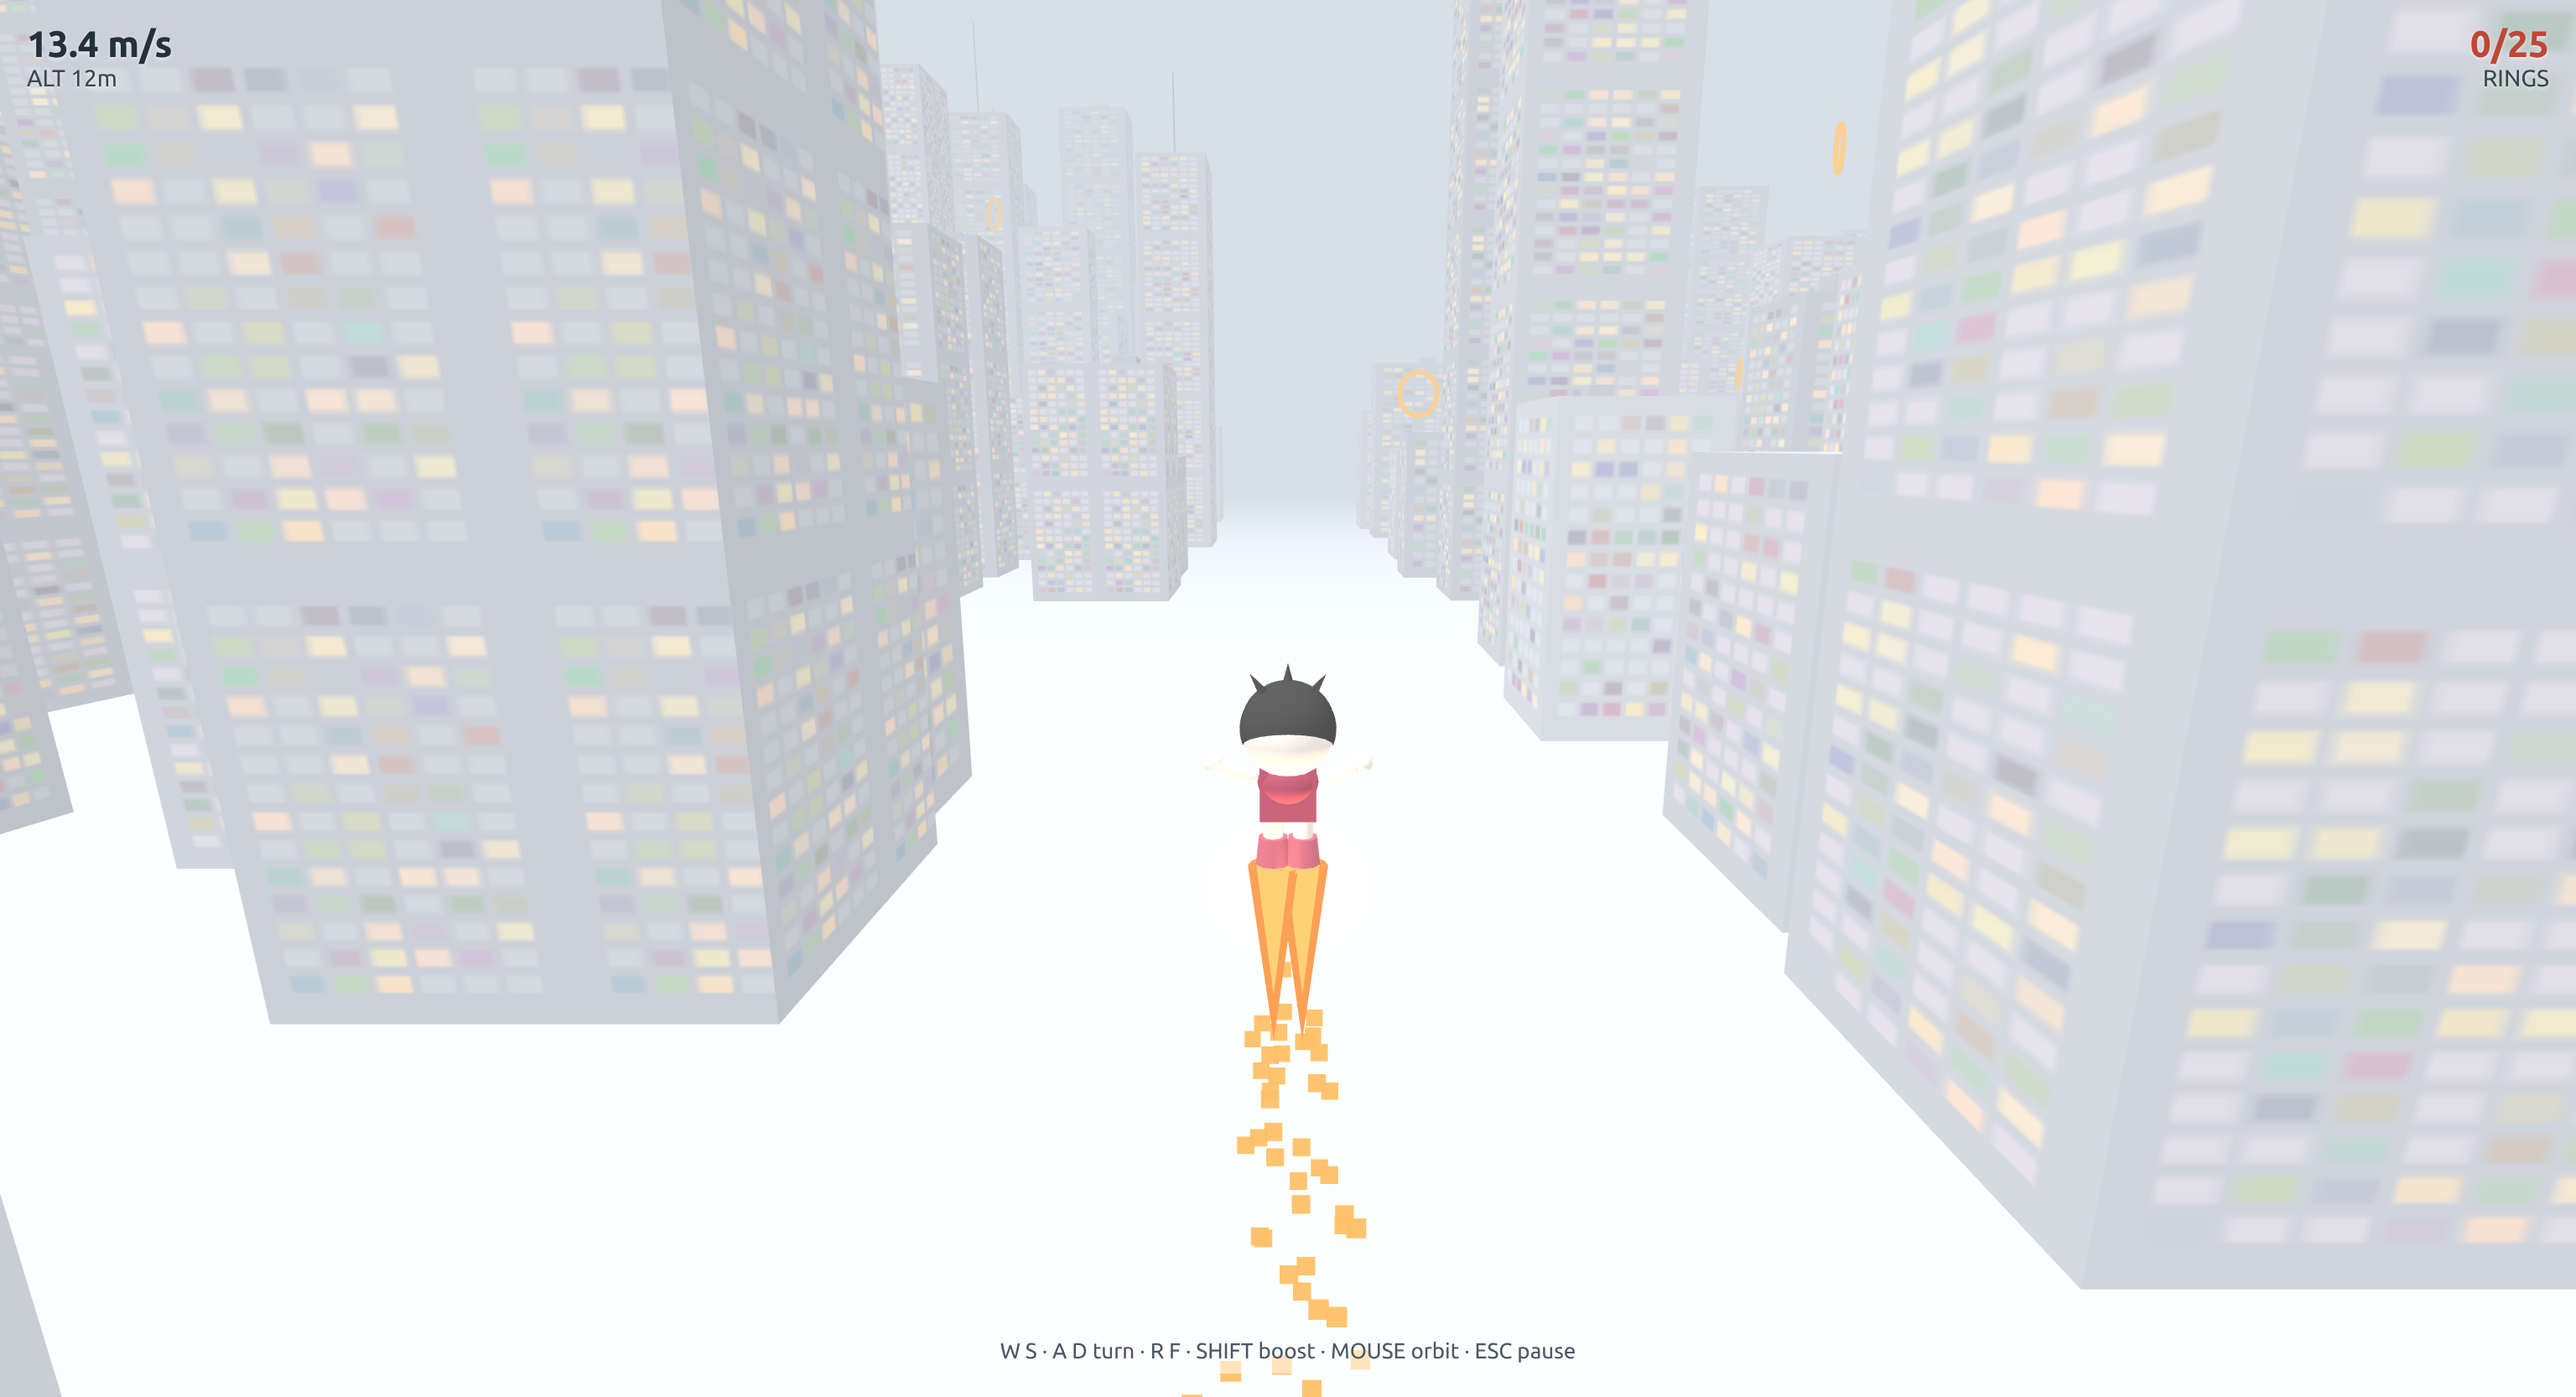
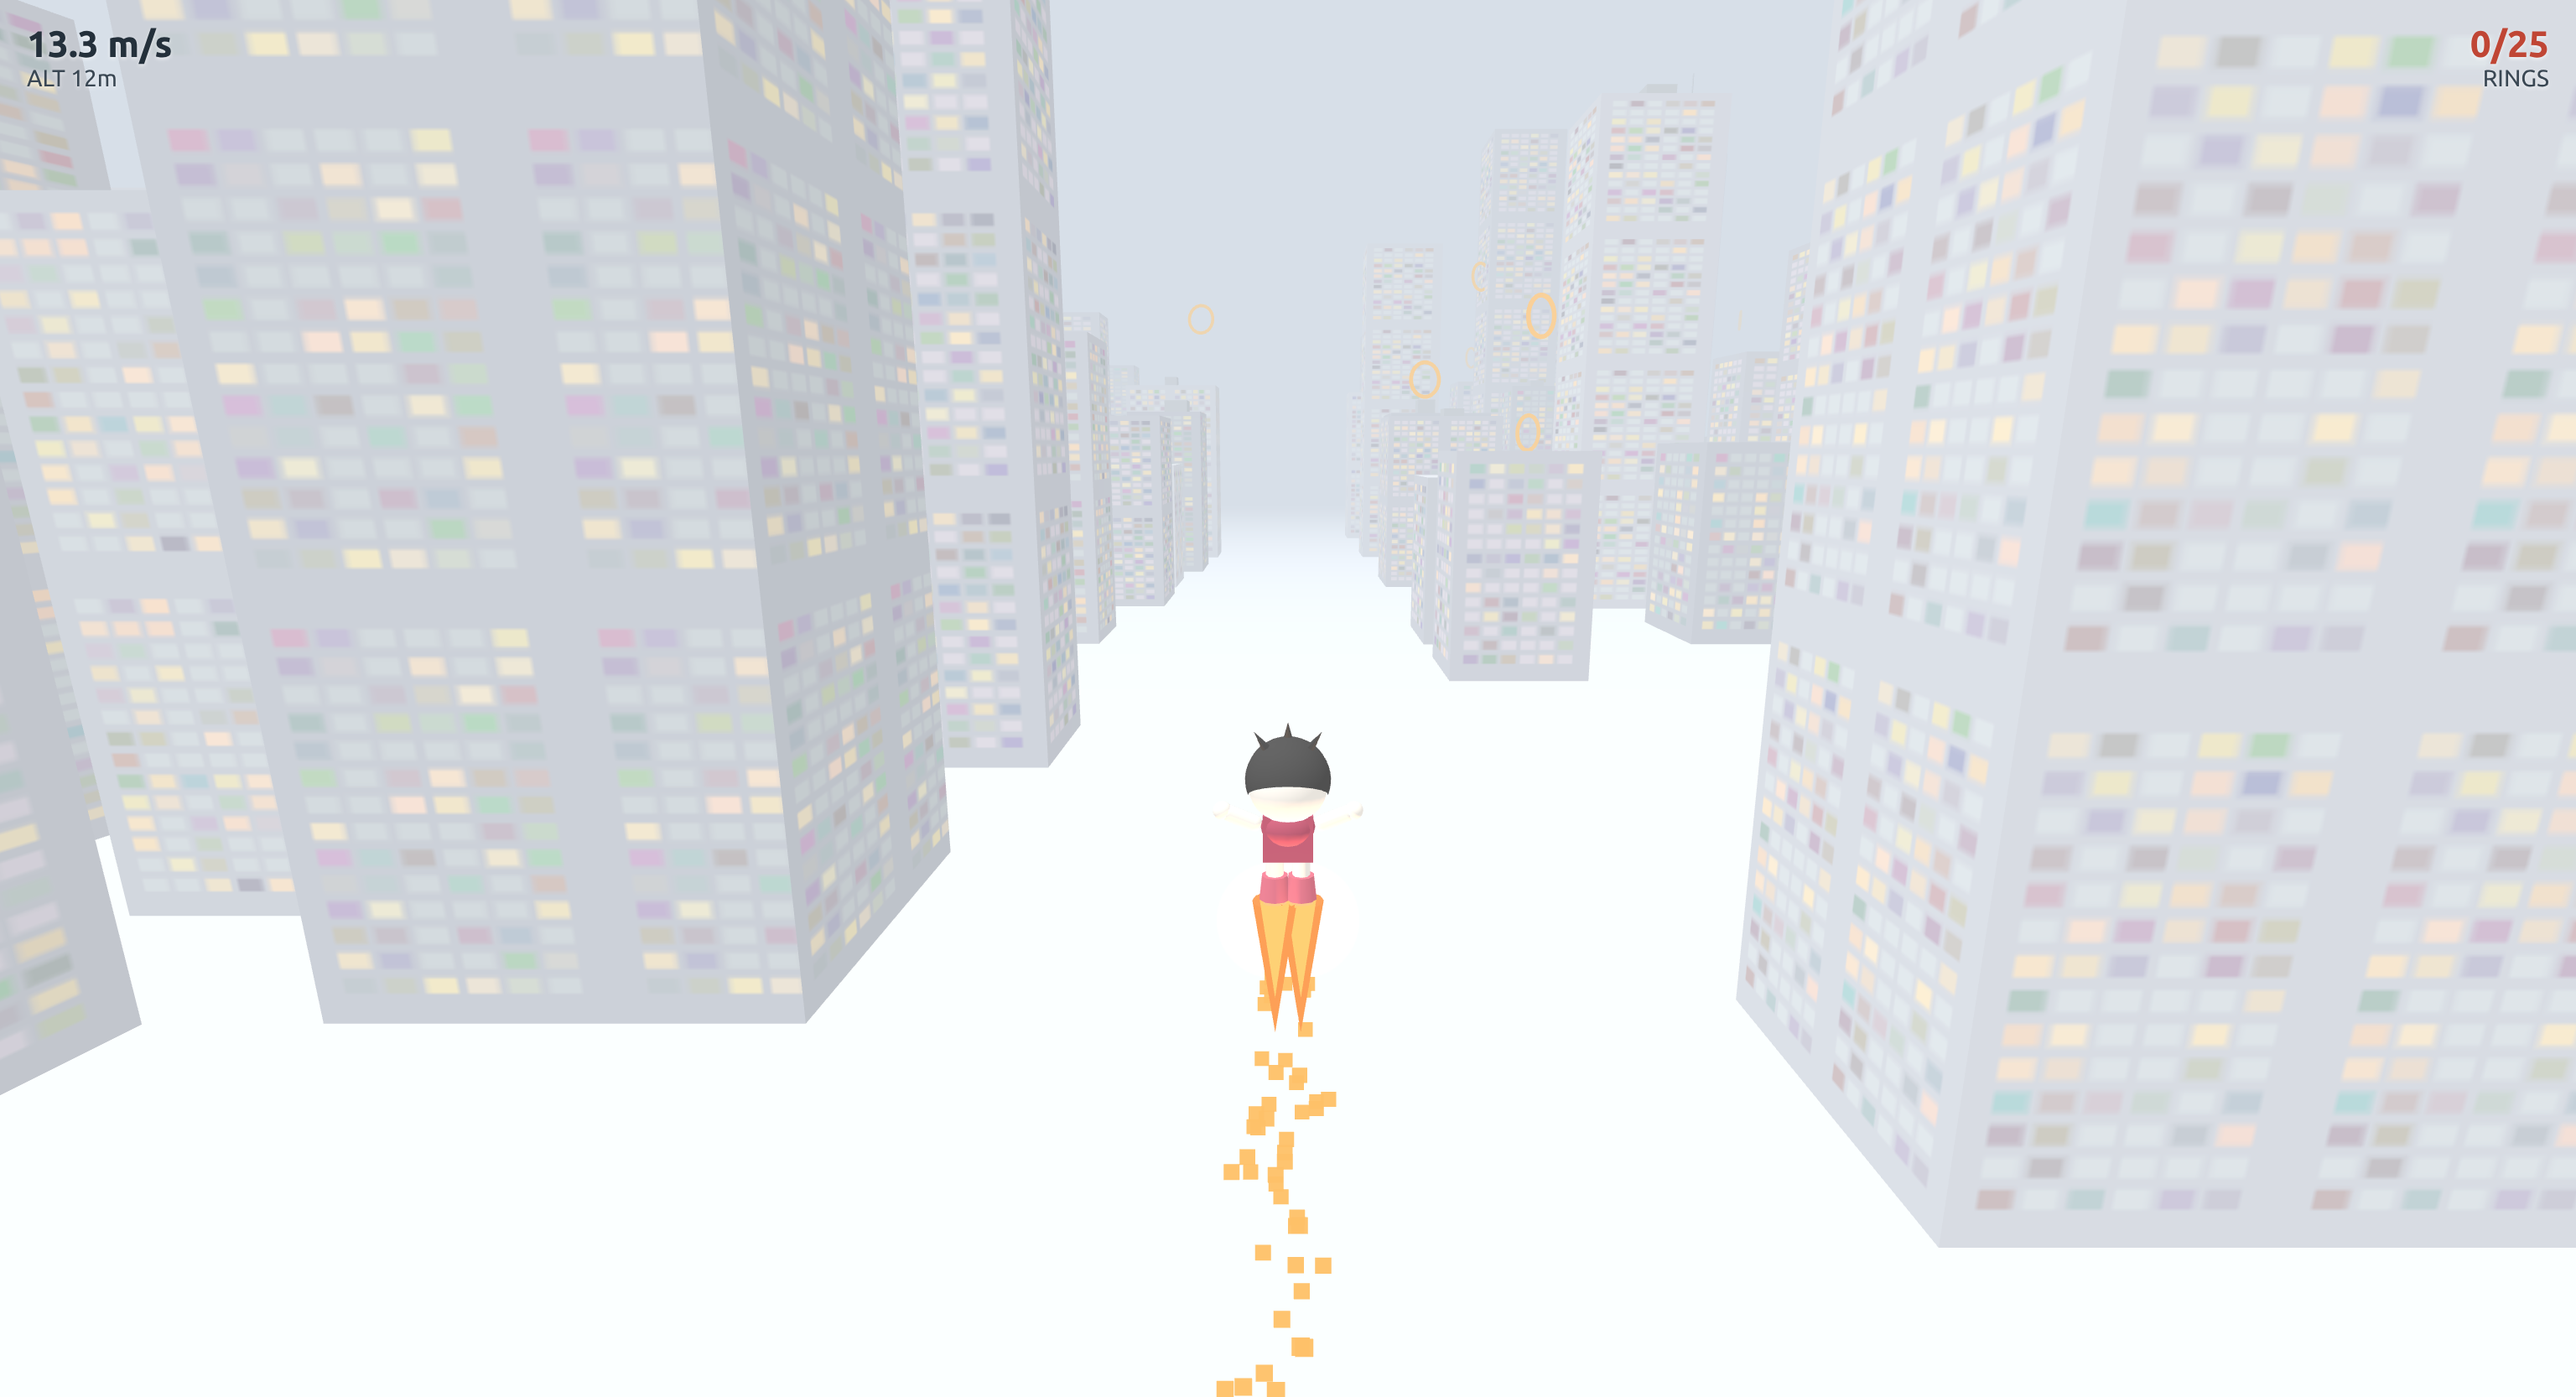
Fix flight controls: trailing chase camera, mouse steers the ship
The camera was a free orbit decoupled from the ship's heading, so after
orbiting to the front, W (forward along the nose) flew the ship toward the
camera and felt backwards.

- camera.js: true trailing chase cam — sits behind the ship along its yaw,
  looks a little ahead; camera heading lags the ship (CAM_HEADING_LAG) so it
  swings out on hard turns; position smoothed; building collision kept
- input.js: mouse now STEERS the ship (writes yaw) + tilts the chase cam,
  replacing the free orbit; wheel zoom retained
- config.js: new camera constants for the chase cam
- README/index.html: control text updated (mouse = steer, not orbit)
- docs/screenshots: cruise + boost re-shot with the new camera
Verified via CDP: camBehind < 0 (camera behind ship), W moves ship away
from camera, ~24 deg trail + bank on a sustained turn, no console errors.

diff --git a/js/camera.js b/js/camera.js
@@ -1,18 +1,42 @@
 'use strict';
 // ---------------------------------------------------------------------------
-// camera.js — orbiting chase camera that follows the player, stays out of
-// buildings, and looks a bit ahead/above them.
+// camera.js — trailing chase camera.
+//
+// Sits BEHIND the ship along its heading and looks a little ahead of it, so
+// the ship always faces AWAY from the camera. Pressing W flies you "into" the
+// screen (forward), matching the reference third-person feel. The camera
+// heading lags slightly behind the ship's yaw so it trails on hard turns, and
+// the position is smoothed so it follows rather than snapping. Buildings
+// still get respected via collideCamera.
 // ---------------------------------------------------------------------------
 
-const _camTarget = new THREE.Vector3();
+const _camPos  = new THREE.Vector3();
+const _camLook = new THREE.Vector3();
+let camHeading = 0;   // smoothed heading the camera follows (lags behind yaw)
 
 function updateCamera(dt, p){
-  const cp = camPitch;
-  const cpx = p.x + Math.sin(camYaw)*Math.cos(cp)*camDist;
-  const cpz = p.z + Math.cos(camYaw)*Math.cos(cp)*camDist;
-  const cpy = p.y + Math.sin(cp)*camDist + CAM_LOOK_UP;
-  _camTarget.set(cpx, cpy, cpz);
-  collideCamera(_camTarget);
-  camera.position.lerp(_camTarget, 1 - Math.pow(CAM_FOLLOW, dt));
-  camera.lookAt(p.x, p.y + CAM_LOOK_AHEAD, p.z);
+  // camera trails the ship's heading (a little lag on turns)
+  camHeading = lerpAngle(camHeading, yaw, 1 - Math.pow(CAM_HEADING_LAG, dt));
+
+  const c = Math.cos(camPitch), s = Math.sin(camPitch);
+
+  // position: BEHIND the ship (opposite of its nose) + above
+  // nose = (-sin(yaw), -cos(yaw))  =>  behind = (+sin, +cos)
+  _camPos.set(
+    p.x + Math.sin(camHeading)*c*camDist,
+    p.y + s*camDist + CAM_LOOK_UP,
+    p.z + Math.cos(camHeading)*c*camDist
+  );
+  collideCamera(_camPos);
+
+  // look-at: a little AHEAD of the ship along its nose + up
+  //   ahead = nose = (-sin(yaw), -cos(yaw))
+  _camLook.set(
+    p.x - Math.sin(yaw)*CAM_LOOK_AHEAD_H,
+    p.y + CAM_LOOK_UP_TGT,
+    p.z - Math.cos(yaw)*CAM_LOOK_AHEAD_H
+  );
+
+  camera.position.lerp(_camPos, 1 - Math.pow(CAM_FOLLOW, dt));
+  camera.lookAt(_camLook);
 }

diff --git a/js/config.js b/js/config.js
@@ -32,19 +32,21 @@ const WORLD_Y_MAX = 280;
 const RING_COUNT = 25;
 const RING_PICKUP_DIST_SQ = 7;     // squared distance for ring collection
 
-// ---- camera ----
-const CAM_YAW_SPEED   = 0.0026;
-const CAM_PITCH_SPEED = 0.0022;
-const CAM_PITCH_MIN   = 0.06;
-const CAM_PITCH_MAX   = 1.15;
-const CAM_DIST_MIN    = 4;
-const CAM_DIST_MAX    = 14;
-const CAM_DIST_WHEEL  = 0.004;
-const CAM_PITCH_DEFAULT = 0.30;
-const CAM_DIST_DEFAULT  = 9;
-const CAM_LOOK_AHEAD = 1.5;        // look-at height above player
-const CAM_LOOK_UP    = 1.1;        // camera base lift
-const CAM_FOLLOW     = 0.0001;     // camera lerp base (1 - base^dt)
+// ---- camera (trailing chase cam) ----
+const CAM_TURN_SPEED   = 0.0042;   // mouse X -> steer the ship (rad / px)
+const CAM_PITCH_SPEED  = 0.0024;   // mouse Y -> look up/down (rad / px)
+const CAM_PITCH_MIN    = 0.10;
+const CAM_PITCH_MAX    = 0.95;
+const CAM_PITCH_DEFAULT = 0.34;    // elevation: behind + slightly above
+const CAM_DIST_MIN     = 5;
+const CAM_DIST_MAX     = 16;
+const CAM_DIST_WHEEL   = 0.005;
+const CAM_DIST_DEFAULT = 10;
+const CAM_LOOK_UP      = 1.2;      // camera base lift above player
+const CAM_LOOK_AHEAD_H = 3.0;      // look-at point ahead along heading
+const CAM_LOOK_UP_TGT  = 1.4;      // look-at height above player
+const CAM_FOLLOW       = 0.0006;   // camera position lerp base (1 - base^dt)
+const CAM_HEADING_LAG  = 0.014;    // camera heading lerp base (trail behind yaw)
 
 // ---- effects ----
 const SPARKS = 70;                 // spark-trail particle pool

diff --git a/js/input.js b/js/input.js
@@ -1,14 +1,17 @@
 'use strict';
 // ---------------------------------------------------------------------------
-// input.js — keyboard state, pointer-lock mouse-orbit, and wheel zoom.
-// Exposes: keys, camYaw, camPitch, camDist, locked.
+// input.js — keyboard state, pointer-lock mouse STEERING, and wheel zoom.
+//
+// The mouse STEERS the ship: horizontal motion turns it (writes to `yaw`),
+// vertical motion tilts the chase camera up/down. A/D keys also turn, as a
+// keyboard alternative. Exposes: keys, camPitch, camDist, locked.
 // ---------------------------------------------------------------------------
 
 const keys={};
 addEventListener('keydown',e=>{ keys[e.code]=true; if(e.code==='Space')e.preventDefault(); });
 addEventListener('keyup',e=>{ keys[e.code]=false; });
 
-let camYaw=0, camPitch=CAM_PITCH_DEFAULT, camDist=CAM_DIST_DEFAULT;
+let camPitch=CAM_PITCH_DEFAULT, camDist=CAM_DIST_DEFAULT;
 let locked=false;
 const overlay=document.getElementById('overlay');
 const pausedEl=document.getElementById('paused');
@@ -21,8 +24,8 @@ document.addEventListener('pointerlockchange',()=>{
 });
 addEventListener('mousemove',e=>{
   if(!locked) return;
-  camYaw   += e.movementX*CAM_YAW_SPEED;
-  camPitch -= e.movementY*CAM_PITCH_SPEED;
+  yaw      -= e.movementX*CAM_TURN_SPEED;   // mouse right -> ship turns right
+  camPitch -= e.movementY*CAM_PITCH_SPEED;  // mouse up   -> look up
   camPitch = Math.max(CAM_PITCH_MIN, Math.min(CAM_PITCH_MAX, camPitch));
 });
 addEventListener('wheel',e=>{

diff --git a/index.html b/index.html
@@ -29,7 +29,7 @@
   <div class="big"><span id="ringcount">0</span>/25</div>
   <div>RINGS</div>
 </div>
-<div id="hint">W S · A D turn · R F · SHIFT boost · MOUSE orbit · ESC pause</div>
+<div id="hint">MOUSE steer · W S thrust · R F · SHIFT boost · ESC pause</div>
 <div id="paused">PAUSED — click to resume</div>
 <div id="overlay">
   <h1>ASTRO <span>FLY</span></h1>
@@ -39,7 +39,7 @@
     <b>A / D</b><span>turn left / right (banks)</span>
     <b>R / F</b><span>ascend / descend</span>
     <b>SHIFT</b><span>boost</span>
-    <b>MOUSE</b><span>orbit camera</span>
+    <b>MOUSE</b><span>steer / look up &amp; down</span>
     <b>ESC</b><span>release mouse</span>
   </div>
   <div class="start">CLICK TO LAUNCH</div>

diff --git a/js/physics.js b/js/physics.js
@@ -3,11 +3,13 @@
 // physics.js — flight state, the per-frame movement model, and collision.
 //
 // Flight model (heading-relative):
+//   MOUSE / A D  steer the ship (yaw) left/right (auto-banks into the turn)
 //   W/S  thrust forward/back along the player's nose
-//   A/D  yaw left/right (auto-banks into the turn)
 //   R/F  ascend/descend
 //   SHIFT boost (more thrust, faster turns, higher speed cap)
 // Drag + speed caps keep it feeling floaty but controllable.
+// The trailing chase camera follows the ship's heading, so "forward" (W)
+// always points away from the camera.
 // ---------------------------------------------------------------------------
 
 const vel = new THREE.Vector3();

diff --git a/js/main.js b/js/main.js
@@ -5,16 +5,12 @@
 // ---------------------------------------------------------------------------
 
 const clock = new THREE.Clock();
-const fwd = new THREE.Vector3();
 let t = 0;
 
 function animate(){
   requestAnimationFrame(animate);
   const dt = Math.min(clock.getDelta(), 0.05);
   t += dt;
-
-  // camera basis (forward = where camera looks, horizontal)
-  fwd.set(-Math.sin(camYaw), 0, -Math.cos(camYaw));
 
   // flight
   const flight = updateFlight(dt, keys);

diff --git a/tools/record_demo.py b/tools/record_demo.py
@@ -78,7 +78,7 @@ evaluate("""(function(){
   document.getElementById('overlay').style.display='none';
   document.getElementById('paused').style.display='none';
   astro.position.set(0,14,80); vel.set(0,0,0);
-  yaw=0; camYaw=0; camPitch=0.30; camDist=9;
+  yaw=0; camHeading=0; camPitch=0.34; camDist=10;
   return 'ok';
 })()""")
 

diff --git a/README.md b/README.md
@@ -25,7 +25,7 @@ Open `index.html` in any modern browser (or just open this repo on
 | **A / D** | Turn left / right (auto-banks) |
 | **R / F** | Ascend / descend |
 | **SHIFT** | Boost |
-| **MOUSE** | Orbit camera (click the page to lock) |
+| **MOUSE** | Steer ship · look up/down (click the page to lock) |
 | **WHEEL** | Zoom camera in / out |
 | **ESC** | Release mouse |
 
@@ -37,9 +37,10 @@ Fly through the foggy low-poly city and collect all **25 rings**.
   and solid orange rocket flames with a spark trail
 - Foggy, high-key pastel city: ~180 procedurally generated towers with lit
   window textures, rooftop clutter, antenna spires, and a central flight corridor
-- Flight model: heading-relative thrust, yaw turns with bank, vertical control,
-  boost, drag and speed caps
-- Orbiting chase camera with pointer-lock, zoom, and building collision
+- Flight model: mouse or A/D steering, heading-relative thrust, banked turns,
+  vertical control, boost, drag and speed caps
+- Trailing chase camera that follows the ship's heading (pointer-lock, zoom,
+  building collision) — W always flies you "into the screen"
 - Building + ground collision, ring collection with HUD (speed / altitude / rings)
 
 ## Repo layout
@@ -54,8 +55,8 @@ js/
   physics.js            # flight model + collision
   effects.js            # flame / glow / spark VFX updates
   rings.js              # collectible rings
-  input.js              # keyboard, pointer-lock mouse orbit, wheel zoom
-  camera.js             # orbiting chase camera
+  input.js              # keyboard + pointer-lock mouse steering, wheel zoom
+  camera.js             # trailing chase camera
   hud.js                # speed / altitude / ring HUD
   main.js               # game loop + resize
 lib/three.min.js        # vendored three.js r149
